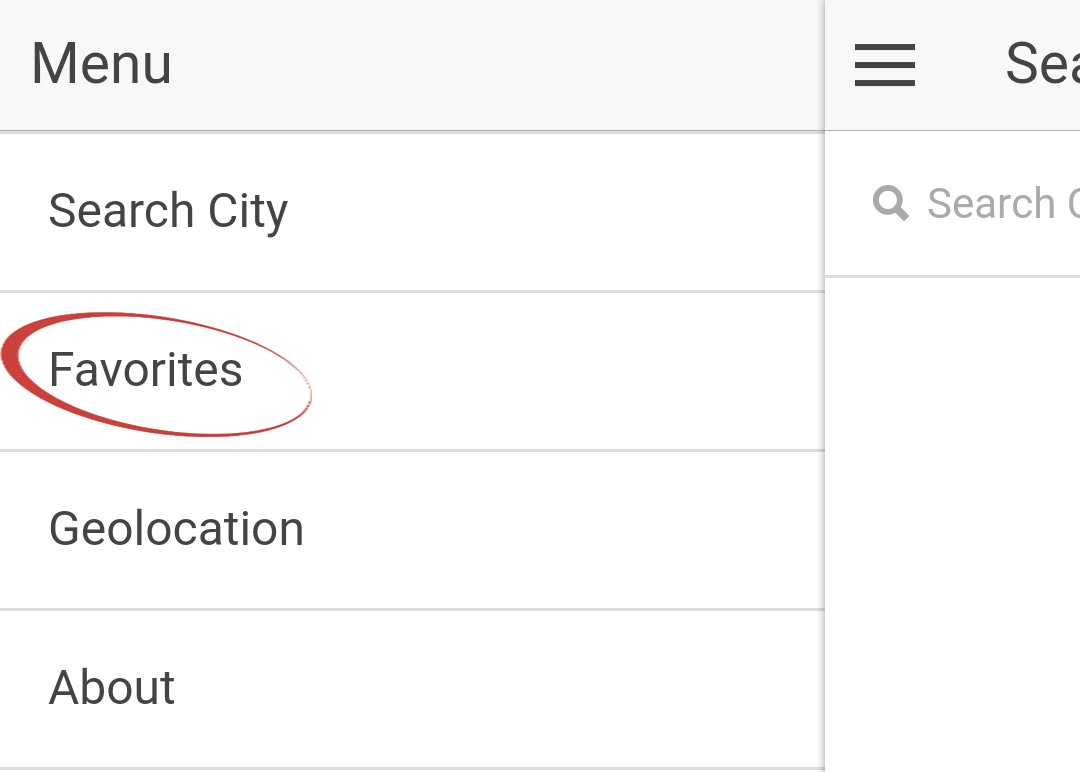
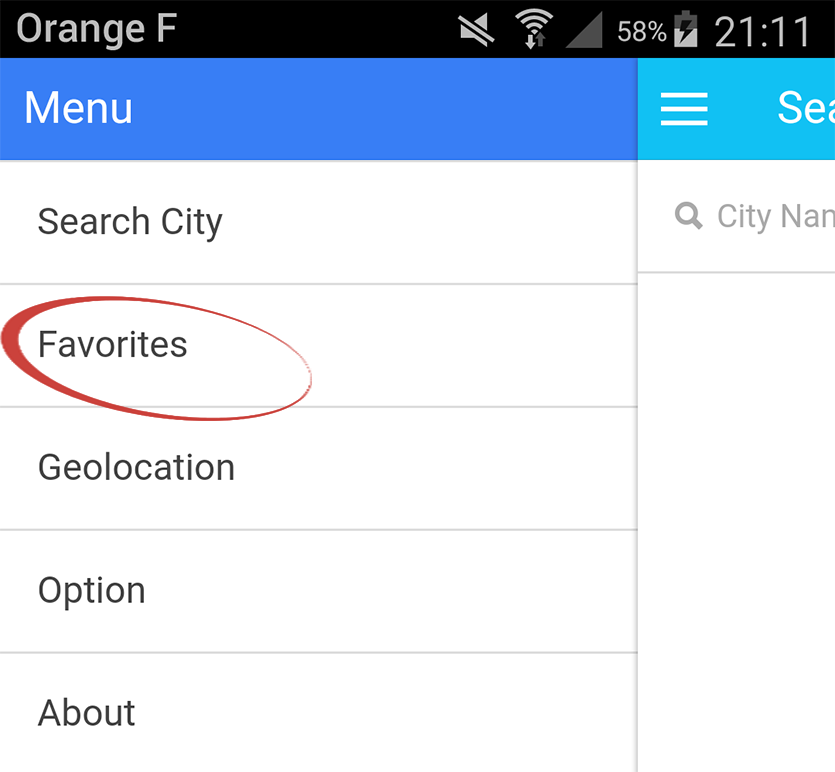
-  update intro imgs

diff --git a/www/templates/intro/intro.html b/www/templates/intro/intro.html
@@ -43,7 +43,7 @@
 
             <ion-slide>
                 <div class="card">
-                    <div class="item item-divider" >
+                    <div class="item item-divider">
                         <h2 class="center" translate>Consult Rain Radar</h2>
                     </div>
                 </div>
@@ -76,19 +76,19 @@
             <ion-slide>
                 <div class="card">
                     <div class="item item-divider">
-                        <h2 class="center" translate>Save your favourit cities</h2>
+                        <h2 class="center" translate>Save your favourite cities</h2>
                     </div>
                     <div class="item item-text-wrap" translate>
                         You can also save your favourite cities to check them quicker from the menu.
                     </div>
-                    <div class="item image-intro-menu">
+                    <div class="item image-intro-menu-fav">
                         <img src="img/intro/menuFav.png">
                     </div>
                 </div>
 
                 <div class="card">
                     <div class="item item-text-wrap" translate>
-                        City not marked as favorite.
+                        City marked as favorite.
                     </div>
                     <div class="item item-image">
                         <img src="img/intro/favorite.png">
@@ -96,7 +96,7 @@
                 </div>
                 <div class="card">
                     <div class="item item-text-wrap" translate>
-                        City marked as favorite.
+                        City not marked as favorite.
                     </div>
                     <div class="item item-image">
                         <img src="img/intro/noFavorite.png">
@@ -113,8 +113,8 @@
                     <div class="item item-text-wrap" translate>
                         By activating your GPS, you can have directly the radar on the geolocated city.
                     </div>
-                    <div class="item image-intro-menu">
-                        <img src="img/intro/menuGeolo.png">
+                    <div class="item image-intro-menu-geoloc">
+                        <img src="img/intro/menuGeoloc.png">
                     </div>
                 </div>
                 <br>

diff --git a/www/js/radar/controllers/RadarController.js b/www/js/radar/controllers/RadarController.js
@@ -30,9 +30,8 @@ cloudApp.controller('RadarController', ['$scope', '$stateParams', '$state', '$in
                     favorites[_this.city.name] = _this.city;
                     _this.isFavorite = true;
                     // put the city as mostViewedCity if it's empty
-                    var mostViewedCity = $localstorage.getObject('mostViewedCity');
-                    if (mostViewedCity == {}) {
-                        $localstorage.set('mostViewedCity', mostViewedCity);
+                    if ($localstorage.get('mostViewedCity') == null) {
+                        $localstorage.set('mostViewedCity', _this.city);
                     }
 
                 } else {
@@ -89,7 +88,7 @@ cloudApp.controller('RadarController', ['$scope', '$stateParams', '$state', '$in
             };
 
             function isCityFacourite() {
-                if( $localstorage.get('favoriteCities') != null && !angular.isUndefined($localstorage.get('favoriteCities')[_this.city.name])) {
+                if( !angular.isUndefined($localstorage.getObject('favoriteCities')[_this.city.name])) {
                     return $localstorage.get('favoriteCities')[_this.city.name].iso2 == _this.city.iso2;
                 } else {
                     return false;

diff --git a/www/js/cities/controllers/CitiesController.js b/www/js/cities/controllers/CitiesController.js
@@ -17,8 +17,8 @@ cloudApp.controller('CitiesController', ['$scope', '$state', '$localstorage', 'c
         if (this.cityToSearch == "") {
             this.cities = [];
         } else {
-            //console.log("city to search");
-            //console.log(this.cityToSearch);
+            console.log("city to search");
+            console.log(this.cityToSearch);
             citiesService.search(this.cityToSearch)
                 .then(function(cities){
                     _this.cities = cities;
@@ -34,7 +34,8 @@ cloudApp.controller('CitiesController', ['$scope', '$state', '$localstorage', 'c
         }
     };
 
-    if ($localstorage.getObject('mostViewedCity') != {}) {
+    if ($localstorage.get('mostViewedCity') != null) {
+        console.log($localstorage.getObject('mostViewedCity'));
         this.cityToSearch = $localstorage.getObject('mostViewedCity').name;
     }
 

diff --git a/www/css/intro.css b/www/css/intro.css
@@ -31,13 +31,17 @@
     margin-bottom: -9px;
 }
 
-.image-intro-menu {
+.image-intro-menu-geoloc, .image-intro-menu-fav {
     text-align: center;
     padding: 0;
 }
 
-.image-intro-menu img {
+.image-intro-menu-geoloc img {
     width: 80%;
+}
+
+.image-intro-menu-fav img {
+    width: 70%;
 }
 
 .image-intro-raining-right img, .image-intro-raining-center img, .image-intro-raining-left img {
